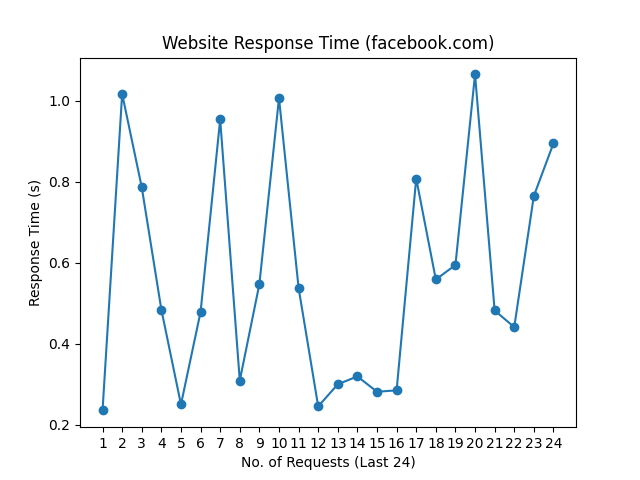
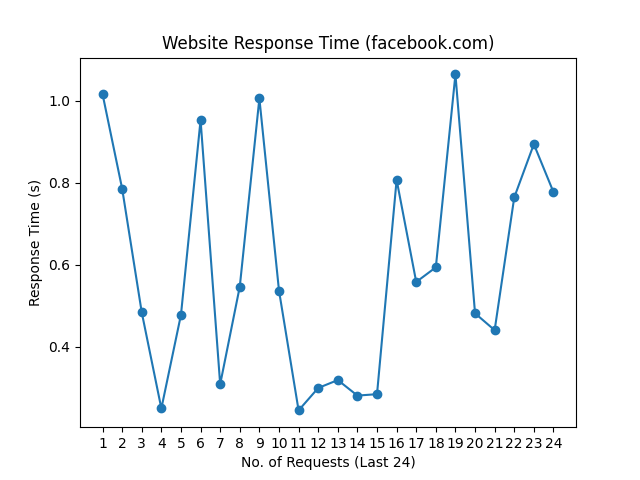
update README.md, history and graph

diff --git a/README.md b/README.md
@@ -1,10 +1,10 @@
 # Web Monitoring
 
-Last Checked: 12/12/2024 08:22
+Last Checked: 13/12/2024 08:22
 
 | Website | Response Time (s) | Status | Avg Uptime (%) |
 |---------|-------------------|--------|----------------|
 | www.thiswebsiteisdown.net | 0 <br> <img src="graph/thiswebsiteisdown.net.png" alt="Graph" width="200" height="200">  | ❌ Down | 0.00 |
-| www.netflix.com | 1.298653 <br> <img src="graph/netflix.com.png" alt="Graph" width="200" height="200">  | ✅ Up | 99.80 |
-| www.google.com | 0.106812 <br> <img src="graph/google.com.png" alt="Graph" width="200" height="200">  | ✅ Up | 100.00 |
-| www.facebook.com | 0.894576 <br> <img src="graph/facebook.com.png" alt="Graph" width="200" height="200">  | ✅ Up | 100.00 |
+| www.netflix.com | 1.309360 <br> <img src="graph/netflix.com.png" alt="Graph" width="200" height="200">  | ✅ Up | 99.80 |
+| www.google.com | 0.109096 <br> <img src="graph/google.com.png" alt="Graph" width="200" height="200">  | ✅ Up | 100.00 |
+| www.facebook.com | 0.777691 <br> <img src="graph/facebook.com.png" alt="Graph" width="200" height="200">  | ✅ Up | 100.00 |
